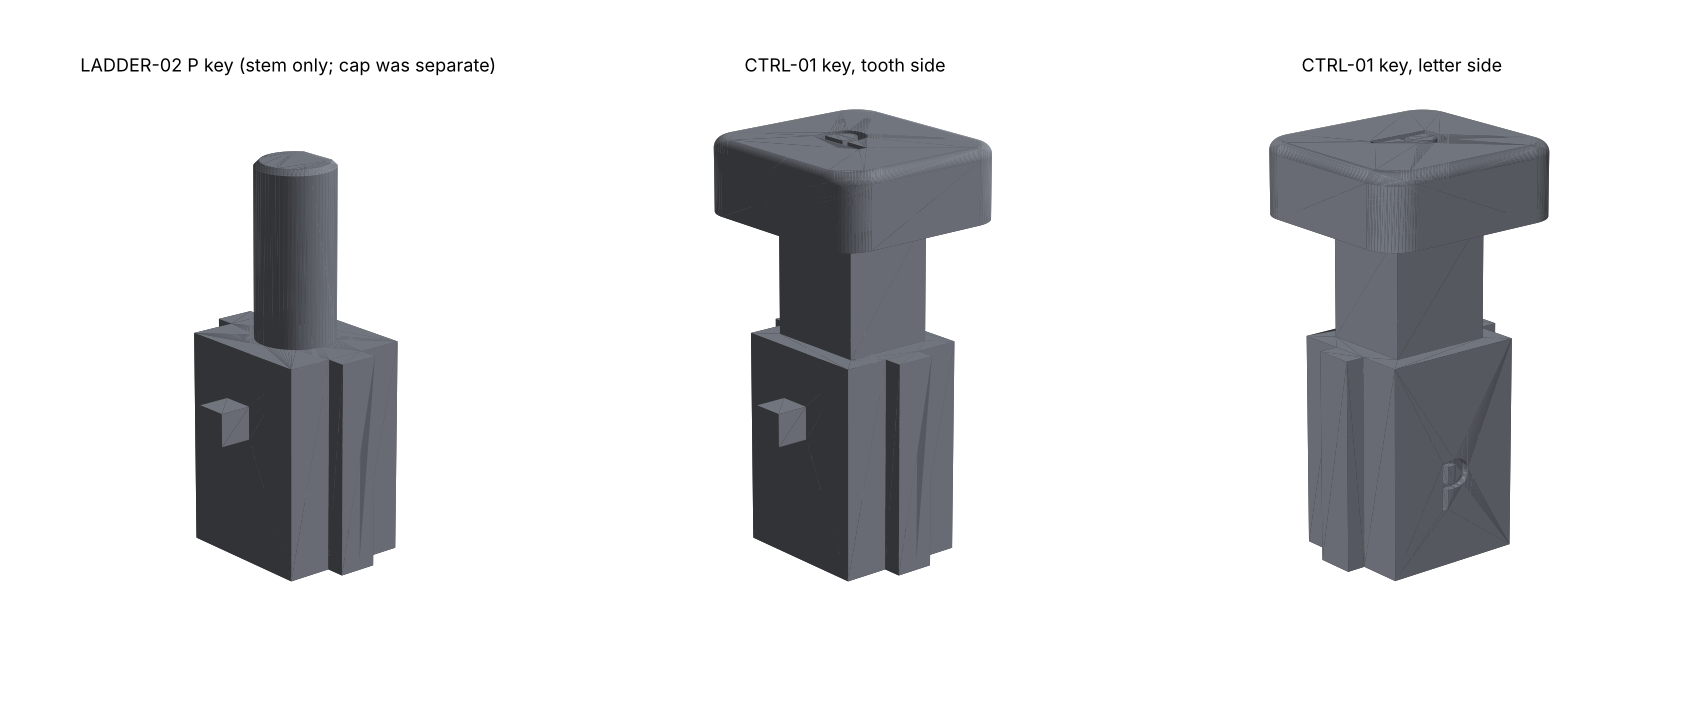
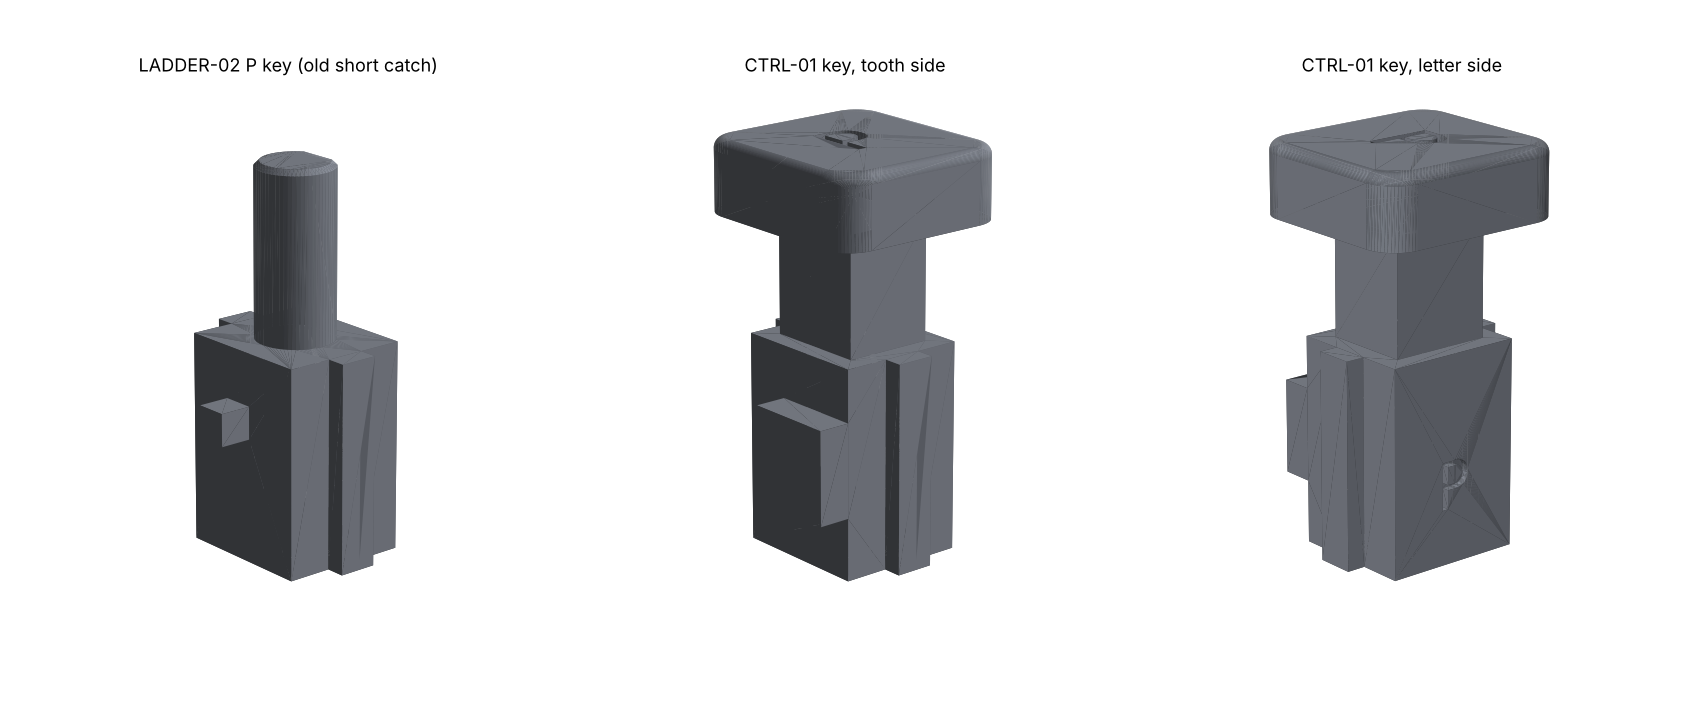
CTRL-01: P catch with its ledge and ramp lines run on to the key face edge
Michael (26 Oct): keep the P tip, ledge and 45 degree ramp, and simply keep
running those two lines until they meet the edge of the key face rather than
stopping at LADDER's short vertical side. Only the root grows; the pawl
never reaches it. Gates for the working lines and the added volume, with
negative controls. 14 pass.

Claude-Session: https://claude.ai/code/session_01J1L91HqoLUAyQ2riHuRPFW

Changed region(s): [[0.4615, 0.5684, 0.5231, 0.7479], [0.0615, 0.0598, 0.3077, 0.1197], [0.7385, 0.5385, 0.8, 0.688]]

diff --git a/hardware/prototypes/ctrl-01/ctrl01.py b/hardware/prototypes/ctrl-01/ctrl01.py
@@ -24,7 +24,7 @@ The key prints upright as modelled.
 
 from __future__ import annotations
 
-from dataclasses import dataclass
+from dataclasses import dataclass, replace
 from pathlib import Path
 
 import cadquery as cq
@@ -63,6 +63,7 @@ class Key:
     h: float = 1.2           # catch overhang; P
     inset: float = INSET
     hole_clr: float = HOLE_CLR
+    full_catch: bool = True  # catch lines run on to the face edge (Michael, 26 Oct)
 
     @property
     def ext_x(self) -> float:
@@ -93,22 +94,29 @@ def _yz_prism(pts, x0, x1) -> cq.Workplane:
 
 
 def tooth_profile(k: Key, flip: bool = False) -> list[tuple[float, float]]:
-    """(Y, Z) outline of the LADDER tooth: flat ledge on top, 45 degree ramp below.
+    """(Y, Z) outline of the tooth: flat ledge on top, 45 degree ramp below.
+
+    LADDER's tooth was a small right triangle whose third, vertical side did no
+    work. With `full_catch` the ledge line and the ramp line simply run on until
+    they meet the edge of the key face, so the tip, ledge and ramp the pawl sees
+    are unchanged and only the root grows. The pawl sits on the tip's side and
+    never reaches the extension.
 
     `flip=True` builds the 23 Sep failure (ramp above, shelf below) so the
     retention gate can be shown to go red.
     """
     z = LEDGE_Z
     tip = PAWL_EDGE + k.h
-    pts = [(tip - RAMP, z - RAMP), (tip, z), (tip - RAMP, z)]
+    back = -STEM_Y / 2 if k.full_catch else tip - RAMP
+    pts = [(back, z - (tip - back)), (tip, z), (back, z)]
     if flip:
         zc = z - RAMP / 2
         pts = [(y, 2 * zc - zz) for y, zz in pts]
     return pts
 
 
-def _body(k: Key, flip: bool = False) -> cq.Workplane:
-    """The LADDER-02 key below its shoulder: stem, rails, spring groove, tooth, label."""
+def _body(k: Key, flip: bool = False, tooth: bool = True) -> cq.Workplane:
+    """The LADDER-02 key below its shoulder: stem, rails, spring groove, tooth."""
     body = _box(-STEM_X / 2, STEM_X / 2, -STEM_Y / 2, STEM_Y / 2, 0, BODY_H)
     for s in (-1, 1):
         y0, y1 = (STEM_Y / 2, STEM_Y / 2 + RAIL_P) if s > 0 else (-STEM_Y / 2 - RAIL_P, -STEM_Y / 2)
@@ -116,7 +124,8 @@ def _body(k: Key, flip: bool = False) -> cq.Workplane:
     groove = (cq.Workplane("XY").circle((SPRING_OD + 0.8) / 2).circle(BOSS_D / 2)
               .extrude(GROOVE_D))
     body = body.cut(groove)
-    body = body.union(_yz_prism(tooth_profile(k, flip), -STEM_X / 2 - TOOTH_X, -STEM_X / 2 + 0.01))
+    if tooth:
+        body = body.union(_yz_prism(tooth_profile(k, flip), -STEM_X / 2 - TOOTH_X, -STEM_X / 2 + 0.01))
     return body
 
 
@@ -127,6 +136,7 @@ def _label(part: cq.Workplane, k: Key) -> cq.Workplane:
 
 def old_key(k: Key = Key()) -> cq.Workplane:
     """LADDER-02 key-P-2 with its D neck, for checking the rebuild against the print."""
+    k = replace(k, full_catch=False)
     neck = (cq.Workplane("XY").circle(NECK_D / 2).extrude(LID_T + TRAVEL + SOCKET_D)
             .intersect(_box(-NECK_D, NECK_FLAT, -NECK_D, NECK_D, 0, LID_T + TRAVEL + SOCKET_D)))
     neck = neck.faces(">Z").edges().chamfer(0.4).translate((0, 0, BODY_H))

diff --git a/hardware/prototypes/ctrl-01/test_ctrl01.py b/hardware/prototypes/ctrl-01/test_ctrl01.py
@@ -13,7 +13,7 @@ from pathlib import Path
 import cadquery as cq
 import pytest
 
-from ctrl01 import BODY_H, Key, key, old_key
+from ctrl01 import BODY_H, LEDGE_Z, PAWL_EDGE, RAMP, STEM_Y, TOOTH_X, Key, key, old_key, tooth_profile
 
 HERE = Path(__file__).resolve().parent
 # Michael's LADDER-02 print file, from latch-rig.zip; SHA-256 a3e0dafd...a5ece0a
@@ -92,10 +92,26 @@ def test_rebuild_matches_the_printed_ladder02_key():
     assert worst_vertex_gap(old_key().val(), REFERENCE) < 0.02
 
 
-def test_body_below_the_shoulder_is_unchanged():
+def _catch_growth(k: Key) -> float:
+    """Volume the run-on lines add to LADDER's triangle."""
+    leg_new = PAWL_EDGE + k.h + STEM_Y / 2
+    return (leg_new ** 2 - RAMP ** 2) / 2 * TOOTH_X
+
+
+def test_body_below_the_shoulder_is_unchanged_except_the_catch_root():
     new, old = lower_part(key().val()), lower_part(old_key().val())
-    assert abs(new.Volume() - old.Volume()) < 0.01
-    assert new.cut(old).Volume() < 0.01 and old.cut(new).Volume() < 0.01
+    assert old.cut(new).Volume() < 0.01                       # nothing LADDER had is gone
+    assert new.cut(old).Volume() == pytest.approx(_catch_growth(Key()), abs=0.1)
+
+
+def test_catch_working_lines_are_P_and_run_to_the_face_edge():
+    pts = tooth_profile(Key())
+    tip = (PAWL_EDGE + 1.2, LEDGE_Z)
+    assert tip in pts                                          # P tip and ledge height
+    back = min(pts)
+    assert back[0] == -STEM_Y / 2                              # reaches the face edge
+    assert tip[1] - back[1] == pytest.approx(tip[0] - back[0]) # same 45 degree ramp line
+    assert (back[0], LEDGE_Z) in pts                           # same ledge line
 
 
 def test_shoulder_reaches_past_the_aperture():
@@ -123,7 +139,15 @@ def test_rebuild_gate_catches_a_different_ladder_key():
 
 def test_body_gate_catches_a_reversed_tooth():
     new, old = lower_part(key(flip=True).val()), lower_part(old_key().val())
-    assert new.cut(old).Volume() > 1.0
+    assert old.cut(new).Volume() > 1.0
+
+
+def test_catch_gate_catches_the_short_ladder_triangle():
+    assert min(tooth_profile(replace(Key(), full_catch=False)))[0] != -STEM_Y / 2
+
+
+def test_catch_gate_catches_a_different_overhang():
+    assert (PAWL_EDGE + 1.2, LEDGE_Z) not in tooth_profile(replace(Key(), h=0.9))
 
 
 def test_shoulder_gate_catches_a_thin_shoulder():

diff --git a/hardware/prototypes/ctrl-01/README.md b/hardware/prototypes/ctrl-01/README.md
@@ -16,7 +16,7 @@ The plan and drawings are the private canvas "CTRL-01 Controls Rig Plan"
 | Record | **Play gates Record** (approved). Record latches on the slide lock with the same catch as every key, and a gate on Play stops it after 2 mm unless Play is down. A hook from Record directly onto Play was dropped: the same two faces would have to hold Record and let Play pass, pushed the same way |
 | Rig housing | **Full 68 × 110 × 29 mm shell** (approved), split at mid-depth; the back half locates everything, the front half adds flat faces and clearance |
 | Key | **Starts from the LADDER-02 P key exactly** (26 Oct): body, rails, spring groove and tooth unchanged. Where the stem began, the body carries on up without the rails, inset 1.5 mm a side, so a flat shoulder all round stops on the shell. At the old installed cap height there is a one-piece cap whose flat underside lands on the shell at full press |
-| Catch | The old P catch for now. Michael will talk through a new one once the body is right |
+| Catch | **P catch, root run on** (26 Oct): the tip, flat ledge and 45° ramp are LADDER's P exactly; the ledge and ramp lines simply continue until they meet the edge of the key face, instead of stopping at LADDER's short vertical side. Only the root grows; the pawl never reaches it |
 | Slide lock | Every latch thickened to the Stop version; prints flat so no latch root is a single layer line |
 | Stop | Long even ramp, then a flat that runs to the end of the key, beyond where the key travels |
 | Solenoid | None |
@@ -40,7 +40,7 @@ One key: `print/ctrl01-key-P.stl`, modelled and exported upright as it prints.
 
 | File | SHA-256 |
 |---|---|
[3 lines of base64/hex data omitted]
 
 **Print it upright with support under the cap only.** The cap overhangs the
@@ -59,7 +59,8 @@ cd hardware/prototypes/ctrl-01 && python3 -m pytest -q test_ctrl01.py
 |---|---|
 | One valid solid | — |
 | The rebuilt LADDER key matches Michael's printed `key-P-2.stl` to 0.02 mm | the L key (h = 0.9) |
-| Below the shoulder the new key is identical to the old one | the tooth reversed (the WP-04 failure) |
+| Below the shoulder nothing LADDER had is gone, and the only addition is the catch root (volume checked) | the tooth reversed (the WP-04 failure) |
+| The catch's tip, ledge and ramp are P, and its lines reach the face edge | LADDER's short triangle; an L-depth (0.9 mm) catch |
 | The shoulder reaches at least 1.0 mm past the shell aperture, per side (1.5 inset − 0.4 clearance = 1.1) | a 0.8 mm inset |
 | The cap underside lands on the shell at full press (6.2 mm travel) | the cap moved 1 mm |
 | No downward face steeper than 45° except the declared ones (groove roof, cap underside, the engraved letter) | the tooth reversed |
